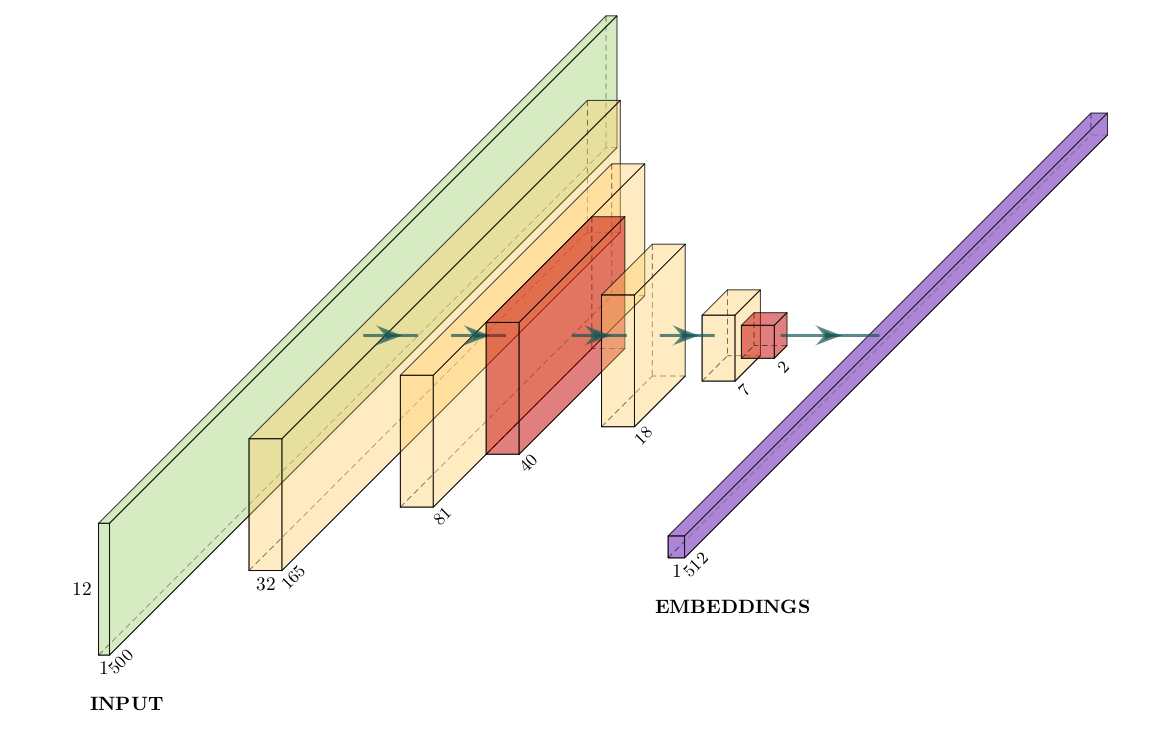
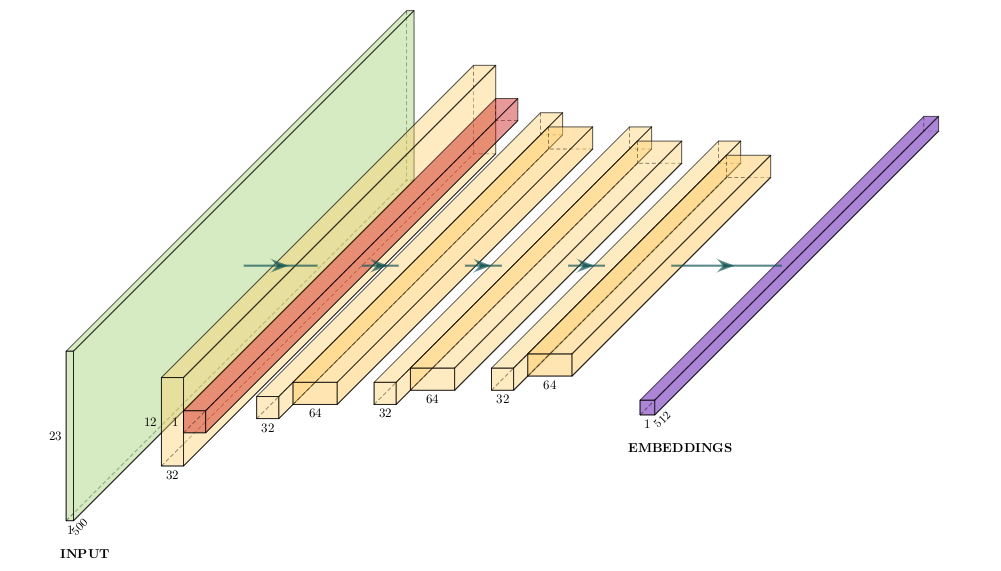
Update README

Changed region(s): [[0.031, 0.0, 0.96, 0.9825]]

diff --git a/README.md b/README.md
@@ -1,7 +1,7 @@
 # Cover Song Identification
 [![Binder](https://mybinder.org/badge_logo.svg)](https://mybinder.org/v2/gh/vignejs/cover-song-identification/master) [![MIT license](https://img.shields.io/badge/License-MIT-blue.svg)](https://lbesson.mit-license.org/)
 
-[<img src="https://deepnote.com/buttons/launch-in-deepnote.svg">](https://deepnote.com/project/34044948-e4b5-4552-8a22-f468666deb3c)
+[<img src="https://deepnote.com/buttons/launch-in-deepnote.svg">](https://deepnote.com/project/82619257-0268-4ccc-bfdb-af99b74ce311)
 
 Cover Song Identification with Siamese Network. Embeddings can be generated with CNN encoder for faster retrieval of similar (cover) songs for a given query song.
 
@@ -84,5 +84,26 @@ Options:
 
 ```
 
-## Network
-![network](nn.png)
+## Training
+<a href="https://colab.research.google.com/github/vignejs/cover-song-identification/blob/master/train.ipynb" target="_parent"><img src="https://colab.research.google.com/assets/colab-badge.svg" alt="Open In Colab"/></a>
+
+The model was trained on crema pcp features from benchmark subset resized to 23x500 by tiling 2 times in pitch dimension and removing the last row as inspired by [[1]](#1). Siamese has two input CNN encoder with shared weights for learning the embeddings for each input audio features. The two input pair being performance from same works as positive class and performance of one of the work and other from randomly chosen work as negative class. The L1 distance of these two encoder is densely connected to one sigmoidal output. Lookahead optimizer in used in conjunction with Adam for better performance.
+
+| ![a single CNN encoder](nn.png) |
+|:--:| 
+|*a single CNN encoder*|
+
+## Evaluation
+<a href="https://colab.research.google.com/github/vignejs/cover-song-identification/blob/master/evaluate.ipynb" target="_parent"><img src="https://colab.research.google.com/assets/colab-badge.svg" alt="Open In Colab"/></a>
+
+Model was from evaluated on a small dataset from youtube. You can get the pretrained and testset for evaluation from [here](https://github.com/vignejs/cover-song-identification/releases/tag/v0.1.0).
+
+## References
+<a id="1">[1]</a>
+Yesiler, Furkan, Joan Serra, and Emilia Gomez. “Accurate and Scalable Version Identification Using Musically-Motivated Embeddings.” ICASSP 2020 - 2020 IEEE International Conference on Acoustics, Speech and Signal Processing (ICASSP) (2020): n. pag. Crossref. Web.
+
+## Issues
+If you face any problem file an issue. Pull requests are welcome.
+
+## License
+[MIT](LICENSE)
